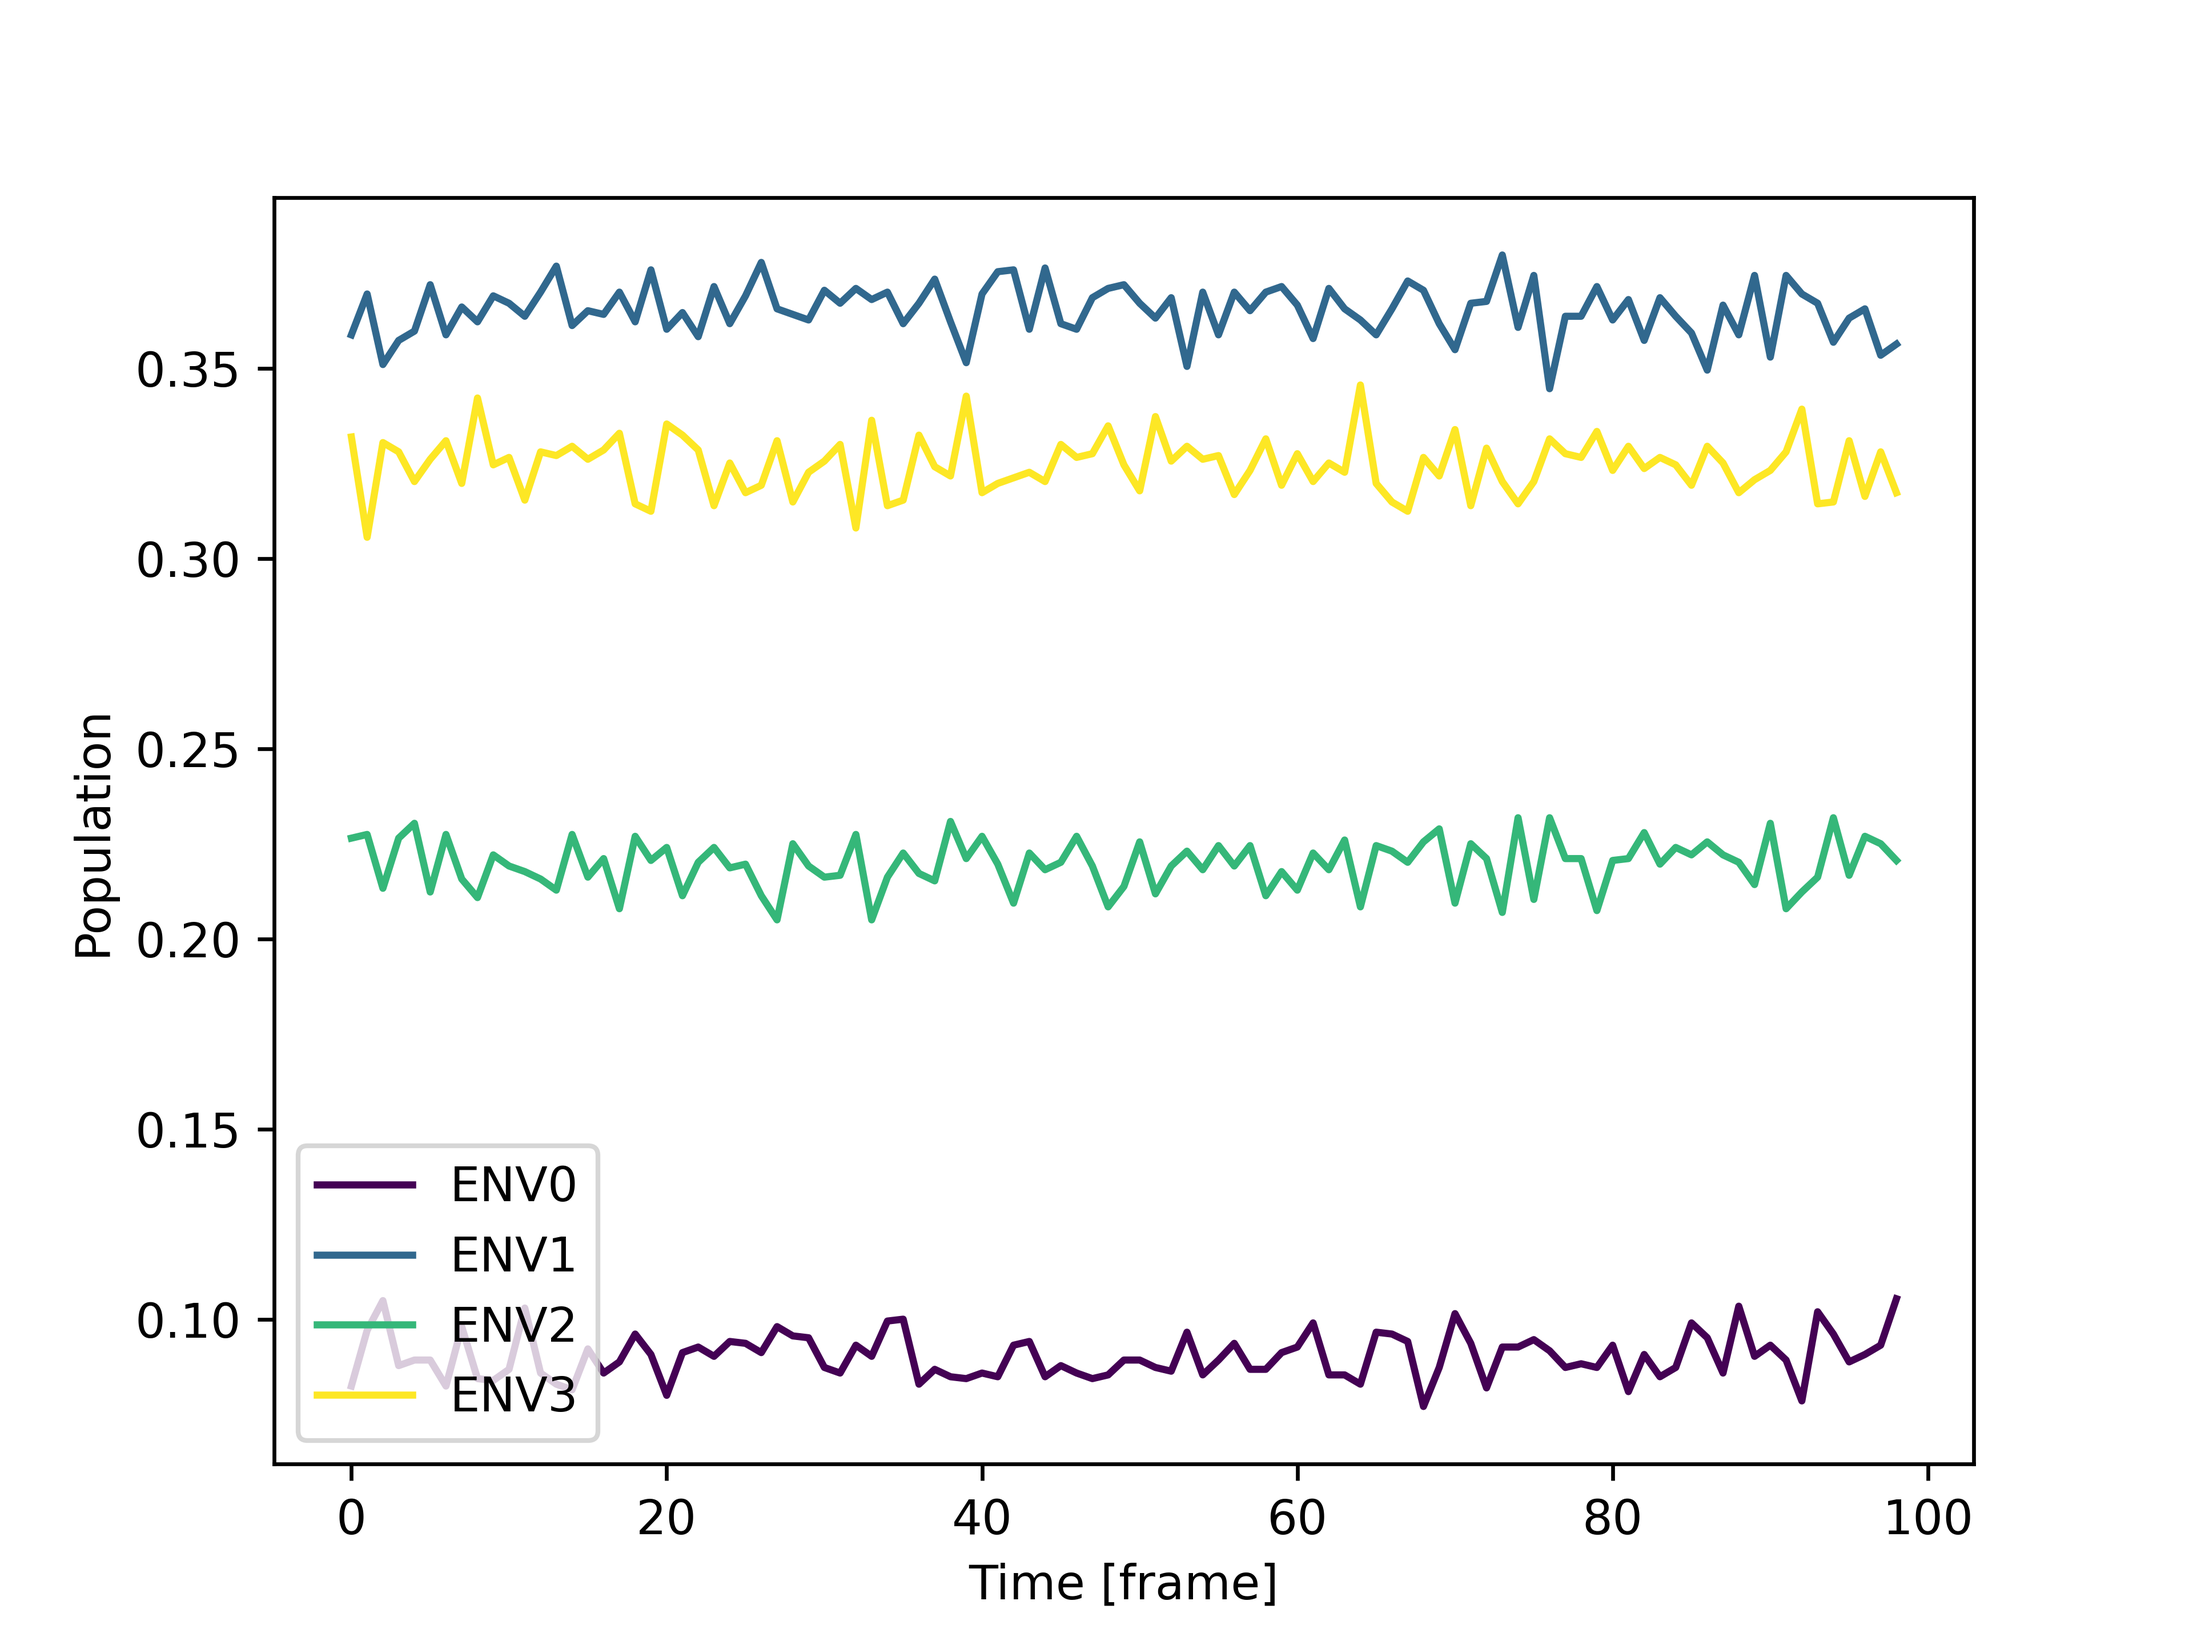
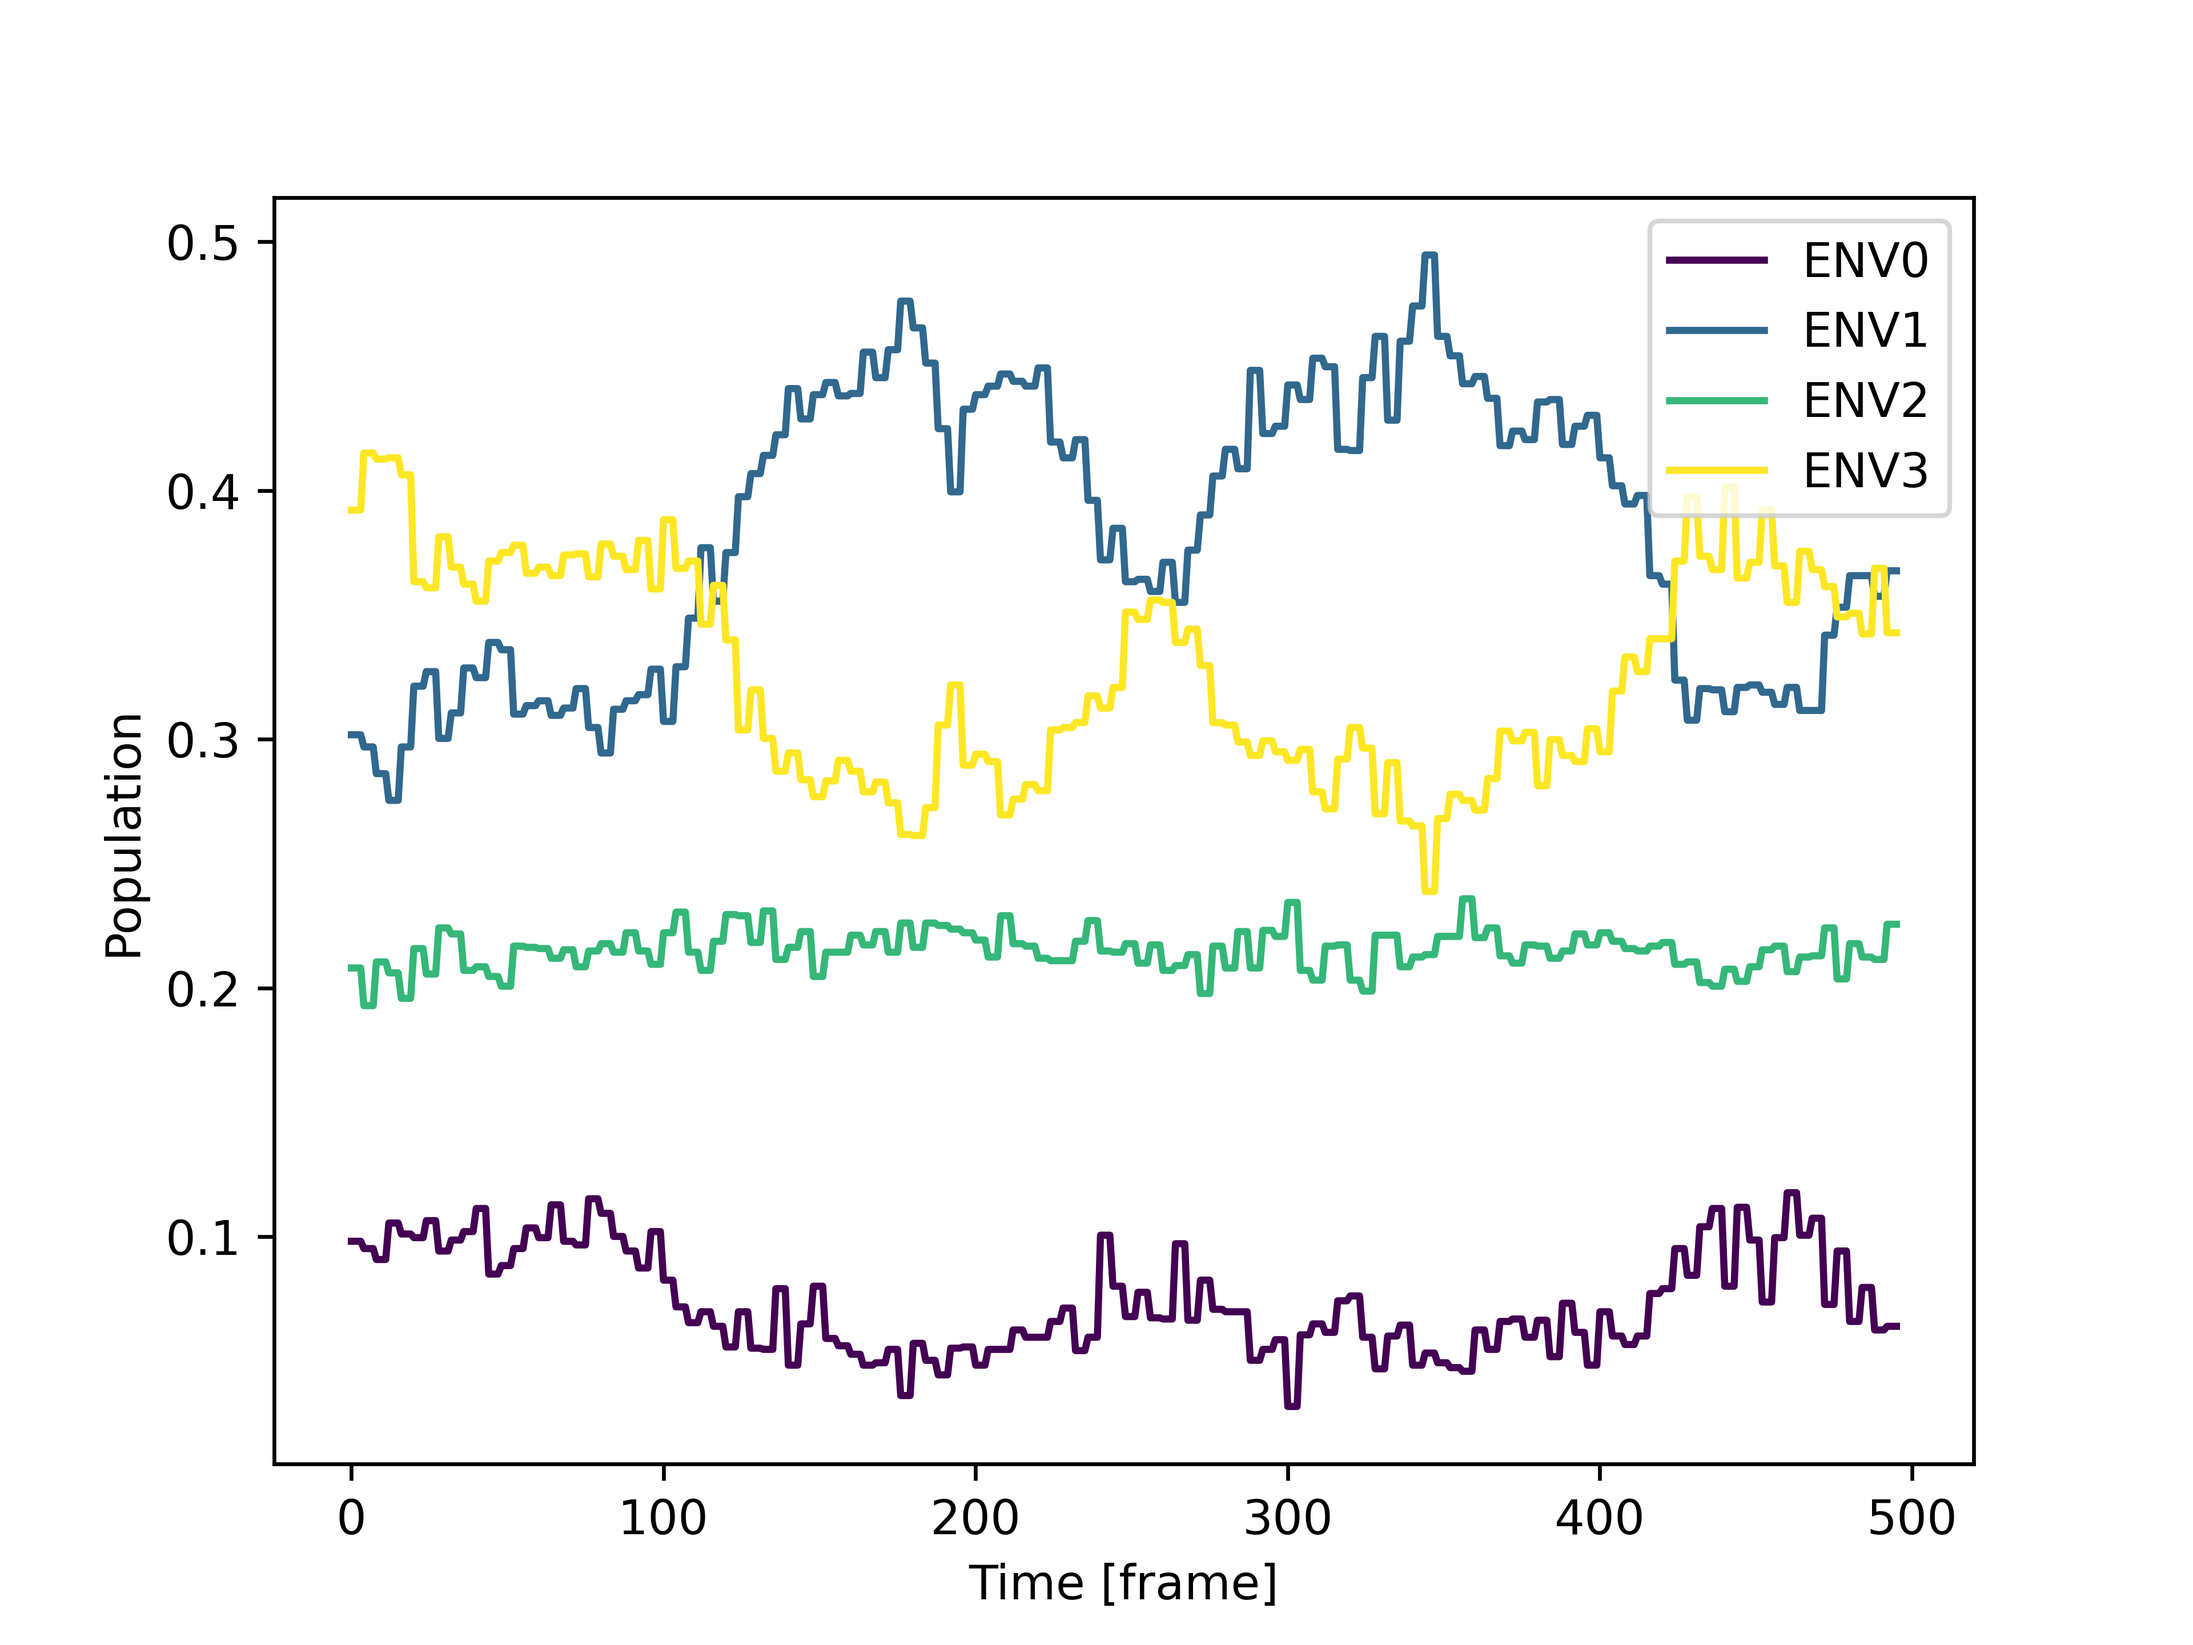
ok, maybe NOW plots are working

diff --git a/examples/example_script_uni.py b/examples/example_script_uni.py
@@ -29,7 +29,7 @@ n_frames = input_data.shape[1]
 ### CLUSTERING WITH A SINGLE TIME RESOLUTION ###
 ### Chose the time resolution --> the length of the windows in which the
 ### time-series will be divided
-TAU_WINDOW = 5
+TAU_WINDOW = 4
 n_windows = int(n_frames / TAU_WINDOW)  # Number of windows
 
 ### The input array needs to be (n_particles * n_windows, TAU_WINDOW) because
@@ -44,10 +44,10 @@ state_list, labels = onion_uni(reshaped_data)
 plot_output_uni("output_uni/Fig1.png", input_data, state_list, labels, TAU_WINDOW)
 plot_one_trj_uni("output_uni/Fig2.png", input_data, labels, TAU_WINDOW, 0)
 plot_medoids_uni("output_uni/Fig3.png", reshaped_data, labels)
-plot_state_populations("output_uni/Fig4.png", n_windows, labels)
-plot_sankey("output_uni/Fig5.png", labels, n_windows, [10, 20, 30, 40])
+plot_state_populations("output_uni/Fig4.png", n_windows, TAU_WINDOW, labels)
+# plot_sankey("output_uni/Fig5.png", labels, n_windows, [10, 20, 30, 40])
 
-### CLUSTERING THE WHOLE RANGE OF TIME RESOLUTIONS ###
+# ### CLUSTERING THE WHOLE RANGE OF TIME RESOLUTIONS ###
 # TAU_WINDOWS = np.unique(np.geomspace(2, n_frames, num=20, dtype=int))
 
 # tra = np.zeros((len(TAU_WINDOWS), 3))  # List of number of states and
@@ -56,7 +56,7 @@ plot_sankey("output_uni/Fig5.png", labels, n_windows, [10, 20, 30, 40])
 
 # for i, tau_window in enumerate(TAU_WINDOWS):
 #     print(tau_window)
-#     reshaped_data = helpers.split_time_series(input_data, tau_window)
+#     reshaped_data = helpers.reshape_from_nt(input_data, tau_window)
 
 #     state_list, labels = onion_uni(reshaped_data)
 

diff --git a/src/tropea_clustering/_internal/plot.py b/src/tropea_clustering/_internal/plot.py
@@ -170,6 +170,7 @@ def plot_one_trj_uni(
 def plot_state_populations(
     title: str,
     n_windows: int,
+    delta_t: int,
     labels: np.ndarray,
 ):
     """
@@ -197,7 +198,7 @@ def plot_state_populations(
         The output of the clustering algorithm.
     """
     n_particles = int(labels.shape[0] / n_windows)
-    labels = np.reshape(labels, (n_particles, n_windows))
+    labels = reshape_to_nt(labels, delta_t, n_windows)
 
     unique_labels = np.unique(labels)
     if -1 not in unique_labels:
@@ -314,15 +315,15 @@ def plot_medoids_uni(
             c=palette[center_id + 1],
         )
 
-        for window in env0:
-            axes.plot(
-                time_seq,
-                window,
-                lw=0.1,
-                c=palette[0],
-                zorder=0,
-                alpha=0.2,
-            )
+    for window in env0:
+        axes.plot(
+            time_seq,
+            window,
+            lw=0.1,
+            c=palette[0],
+            zorder=0,
+            alpha=0.2,
+        )
 
     fig.suptitle("Average time sequence inside each environments")
     axes.set_xlabel(r"Time [frames]")
